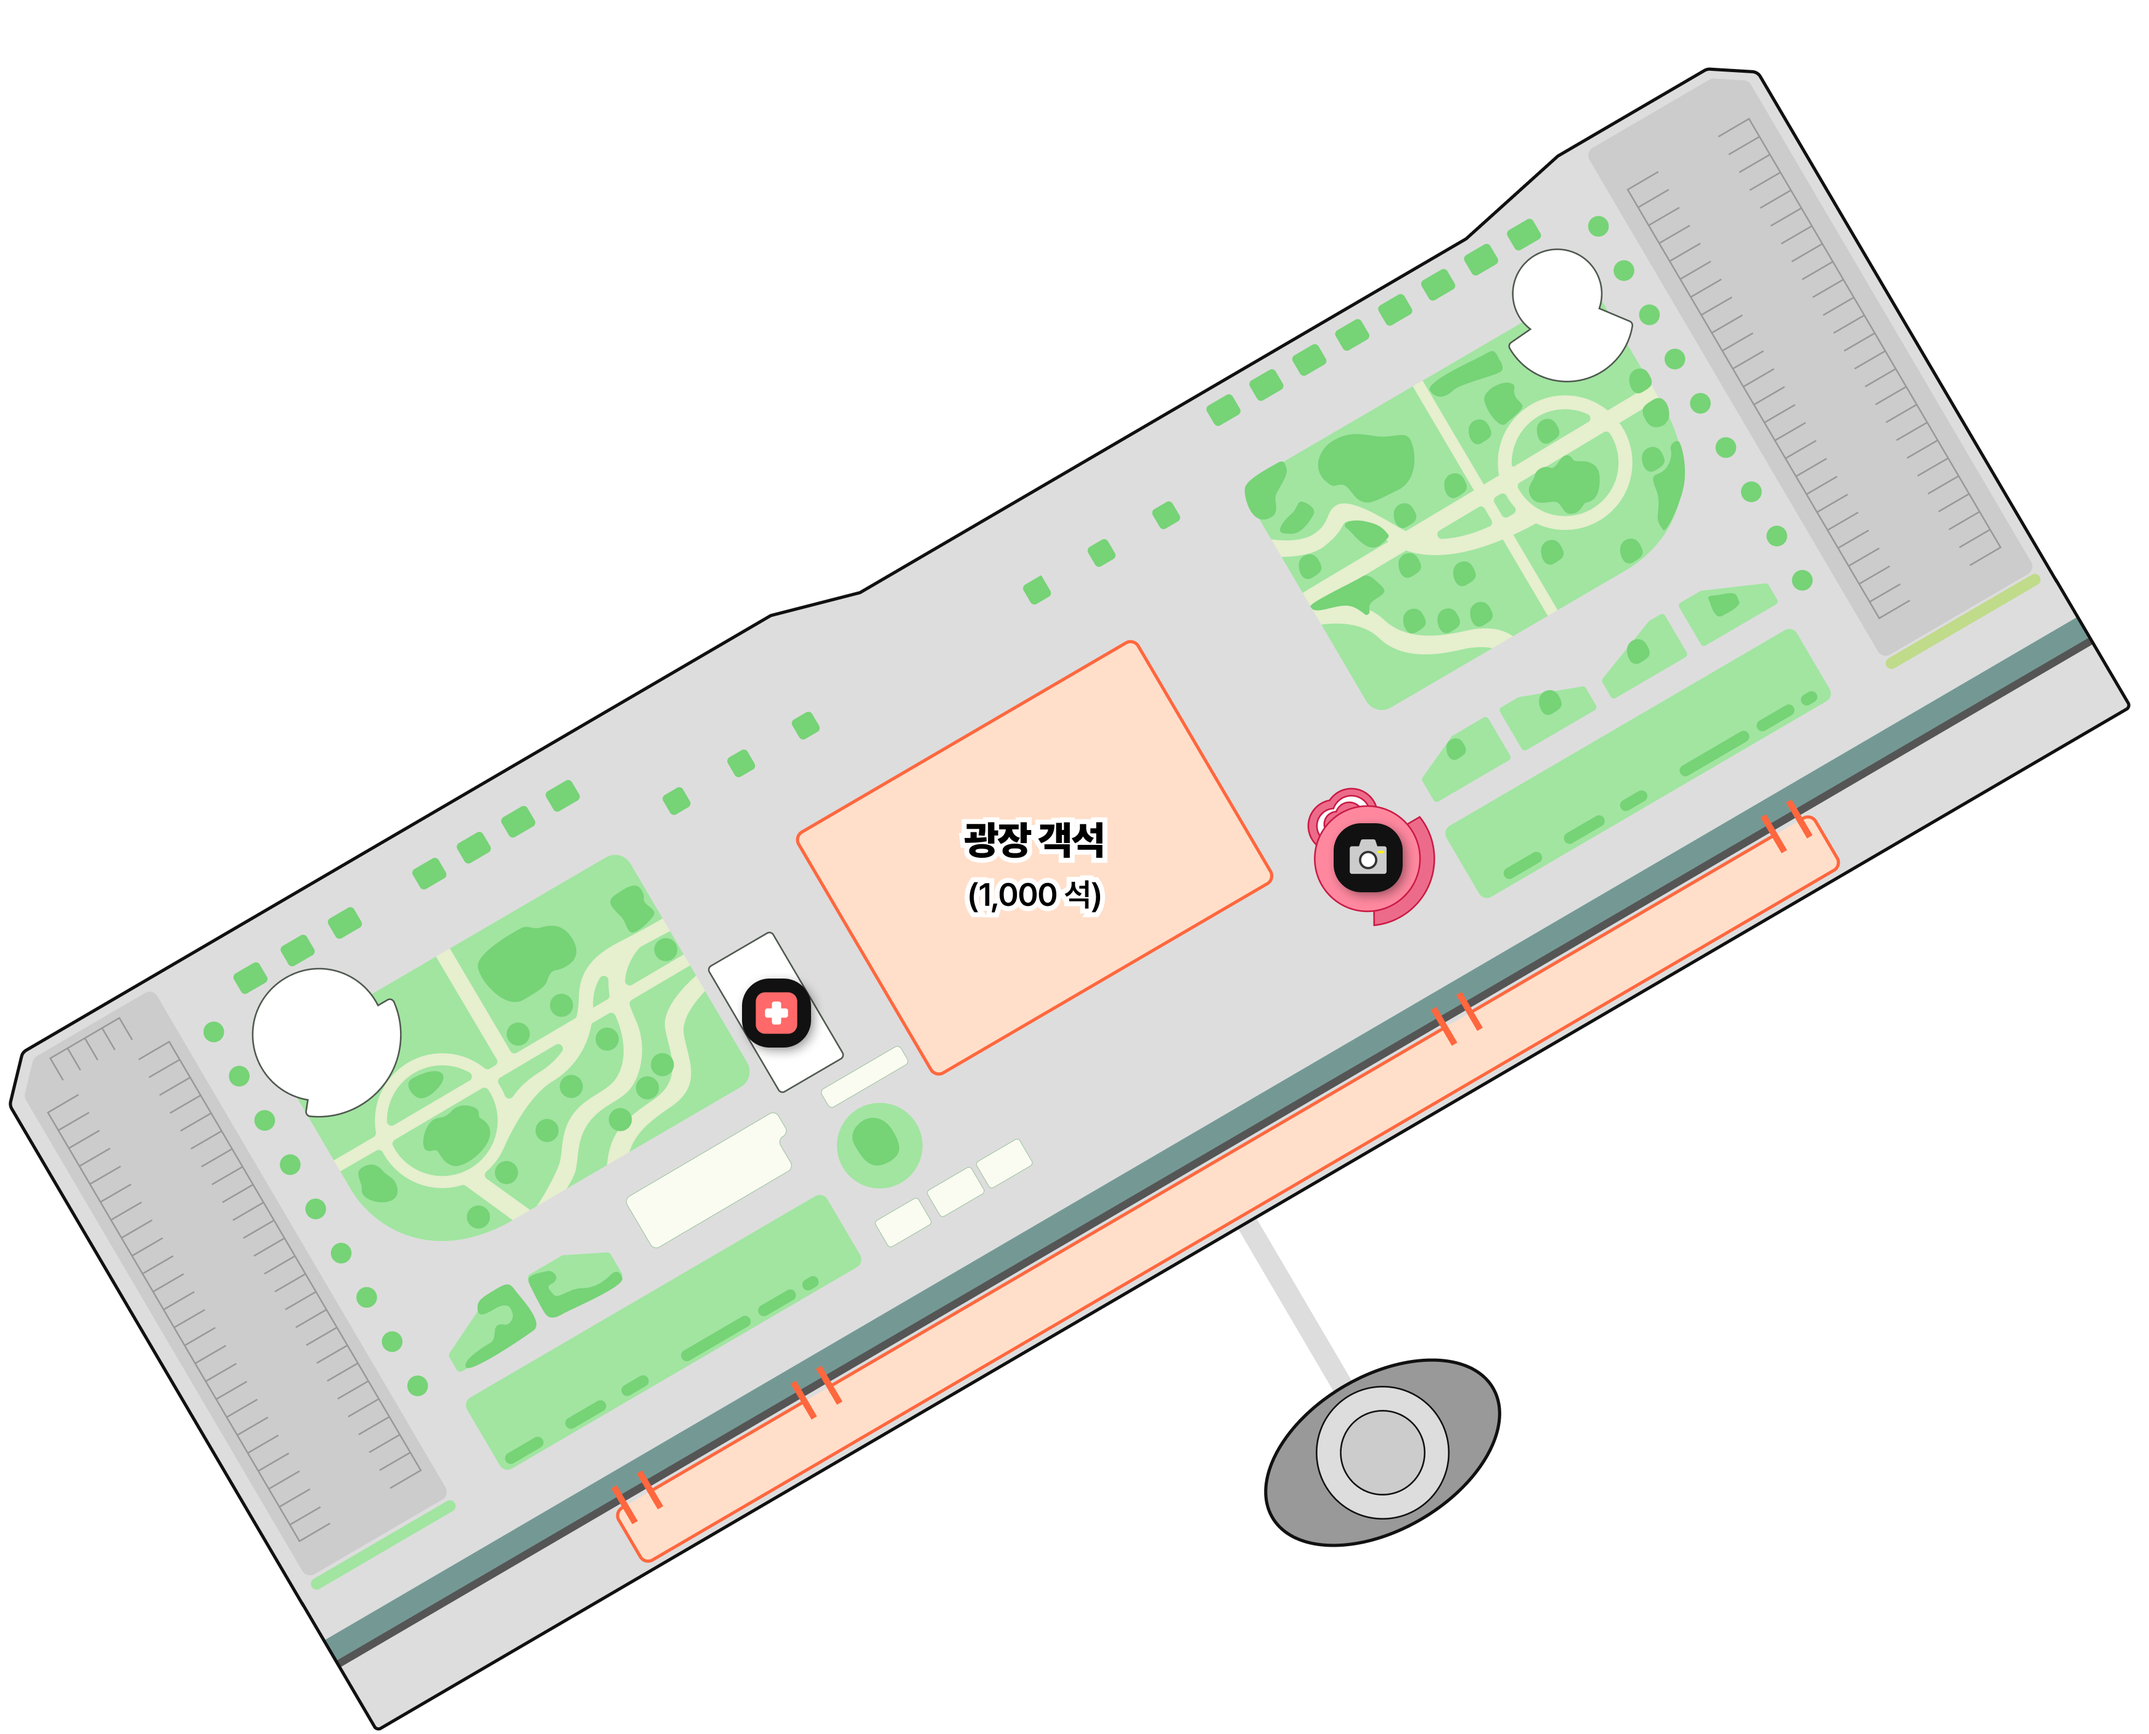
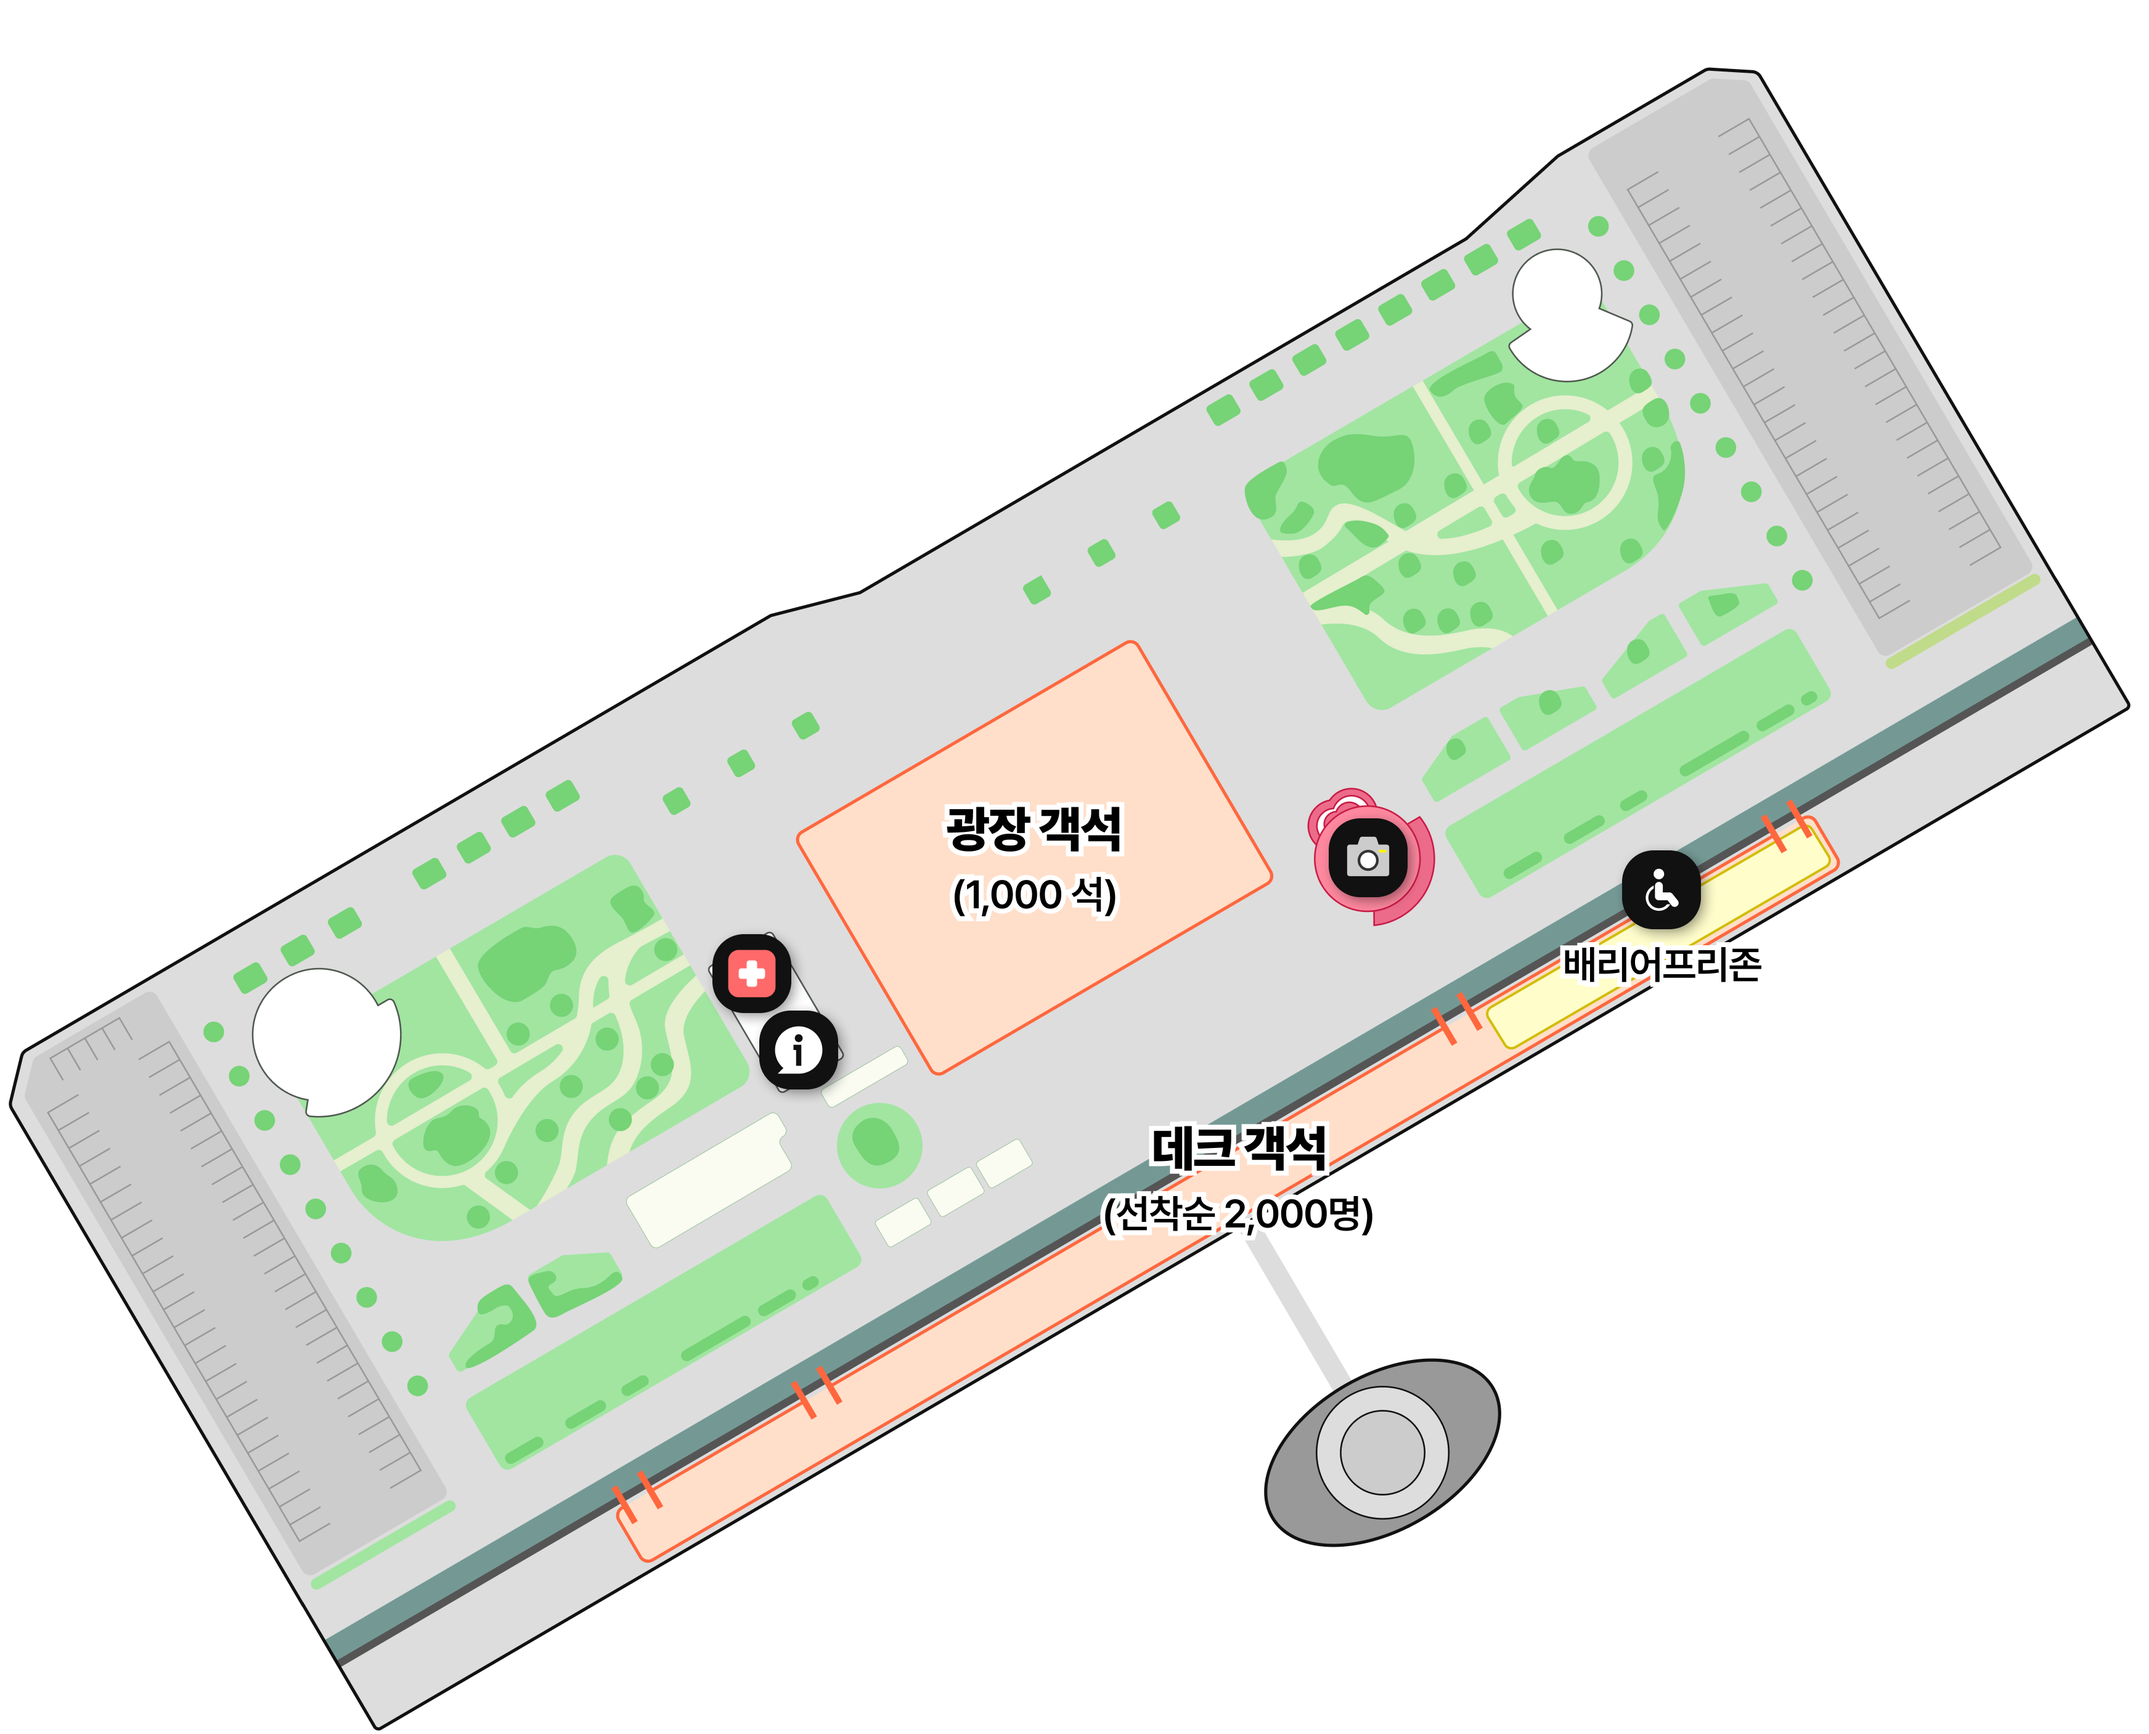
fix : 마커 모양 변경

diff --git a/src/asset/MarkerHandle.js b/src/asset/MarkerHandle.js
@@ -6,7 +6,7 @@ export const markerHandle = (id, naver, map, lat, lng, img, size, text) => {
     map,
     icon: {
       content:
-        text != '공연장'
+        text != '수상해상공연'
           ? id == -1
             ? `
           <div > 
@@ -33,12 +33,16 @@ export const markerHandle = (id, naver, map, lat, lng, img, size, text) => {
           text-shadow: -1px -1px 0 #fff, 1px -1px 0 #fff, -1px 1px 0 #fff, 1px 1px 0 #fff;
            font-weight: 800; justify-content: center;line-height: 16px; white-space: nowrap"> ${text} </div>
           </div>`
-          : `<div> 
-      <div style="position:absolute;bottom:-70px;right:-80px">
-      <img style="width:80px;height:78px" src = ${img}></img>
+          : `
+          <div>
+     <div style="display:flex; justify-content: center;">
+      <img style="width:40px;height:40px" src = ${img}></img>
       </div>
-      
-      </div>`,
+      <div style="display:flex; font-size: 12px;font-family: 'NanumSquareNeo';
+      text-shadow: -1px -1px 0 #fff, 1px -1px 0 #fff, -1px 1px 0 #fff, 1px 1px 0 #fff;
+       font-weight: 800; justify-content: center;line-height: 16px; white-space: nowrap"> ${text} </div>
+      </div>
+      `,
       size: new naver.maps.Size(size, size),
       origin: new naver.maps.Point(0, 0),
       anchor: new naver.maps.Point(25, 26),

diff --git a/src/Routes/map/NolzaMap.js b/src/Routes/map/NolzaMap.js
@@ -10,11 +10,11 @@ import hallMarker from 'asset/marker/concertHall.png';
 import loveGate from 'asset/marker/loveGate.png';
 
 import getMarker from '../../components/map/getMarker';
-import eventMarker from 'asset/marker/event.png';
-import toiletMarker from 'asset/marker/toilet.png';
-import infoMarker from 'asset/marker/info.png';
-import storeMarker from 'asset/marker/store.png';
-import parkMarker from 'asset/marker/parkImg.png';
+import eventMarker from 'asset/marker/manageMarker.png';
+import toiletMarker from 'asset/marker/toiletMarker.png';
+import infoMarker from 'asset/marker/infoMarker.png';
+import storeMarker from 'asset/marker/storeMarker.png';
+import parkMarker from 'asset/marker/parkingMarker.png';
 import { getDetailInfo } from 'components/map/getDetailInfo';
 import { changeMarker } from 'asset/changeMarker';
 
@@ -87,7 +87,7 @@ function NolzaMap(props) {
           let img = '';
           const text = e.name;
 
-          if (e.name == '공연장') {
+          if (e.name == '수상해상공연') {
             img = hallMarker;
           } else if (e.name == '러브게이트') {
             img = loveGate;
